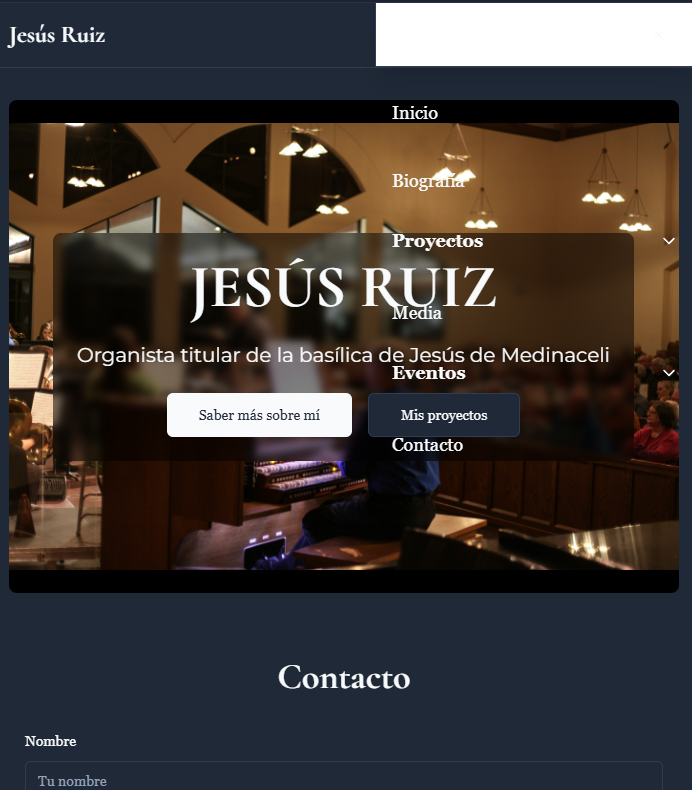
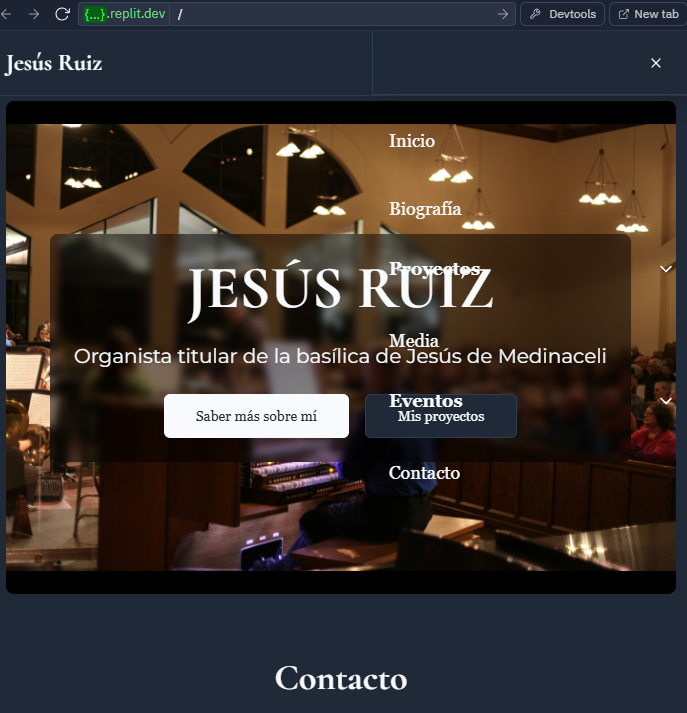
Agent query: Is the mobile navigation menu now showing with a completely solid dark background without any transparency?

diff --git a/client/src/components/Navigation.tsx b/client/src/components/Navigation.tsx
@@ -140,12 +140,13 @@ export default function Navigation() {
         {/* Mobile menu */}
         <div
           className={cn(
-            "fixed inset-y-0 right-0 w-full max-w-xs z-[100]",
-            "bg-background bg-opacity-100 backdrop-filter-none",
+            "fixed inset-y-0 right-0 w-full max-w-xs z-[9999]",
+            "!bg-[#1a202c] !text-white",
             "transform transition-transform duration-300 ease-in-out md:hidden",
             "border-l shadow-xl",
             isOpen ? "translate-x-0" : "translate-x-full",
           )}
+          style={{ backgroundColor: '#1a202c' }}
         >
           <div className="flex h-16 items-center justify-end px-4 border-b">
             <Button
